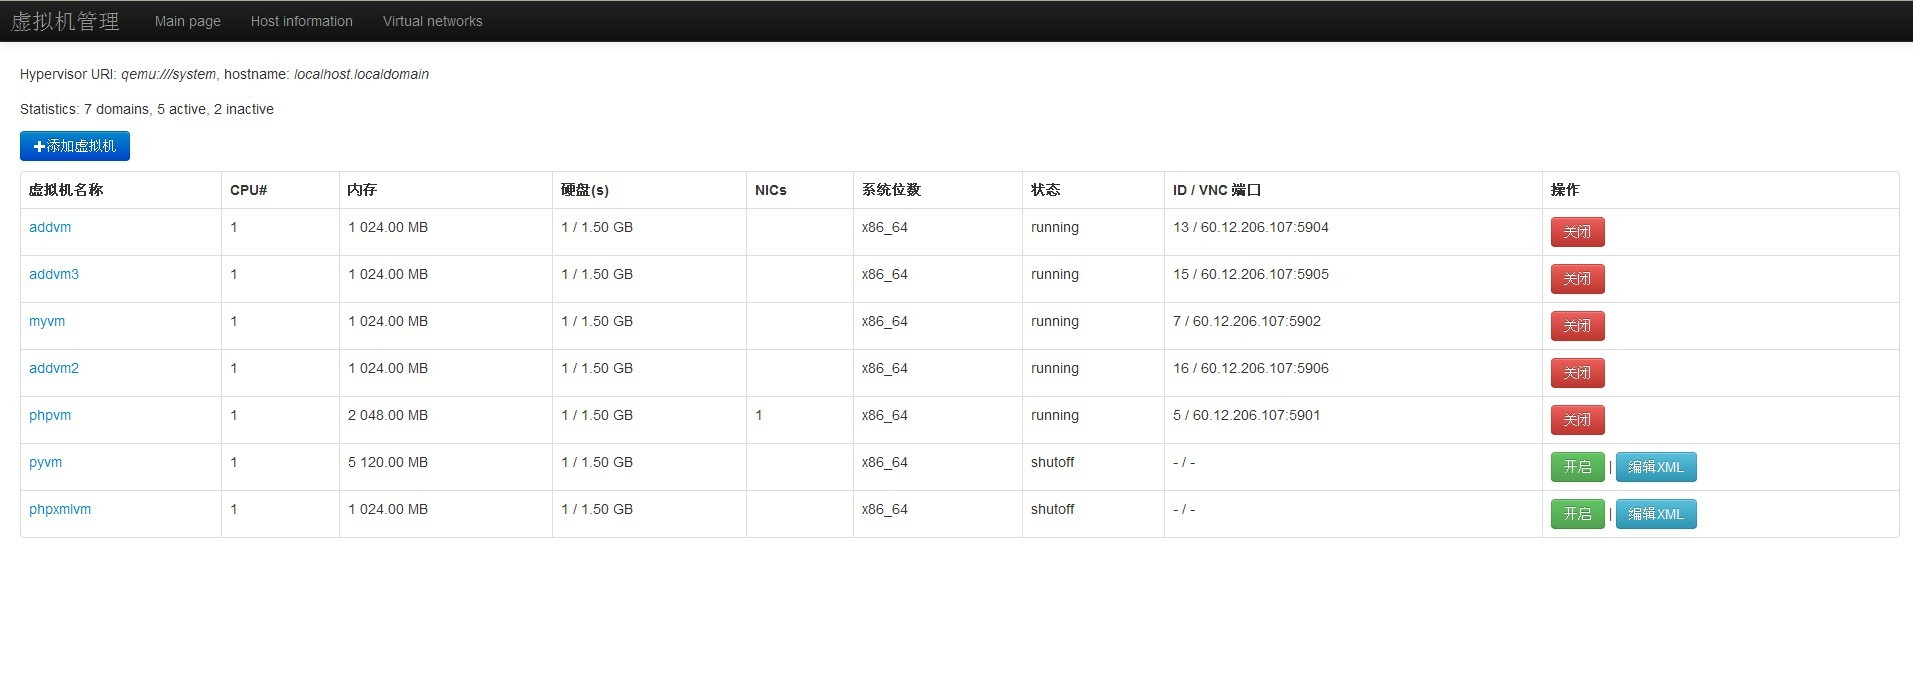
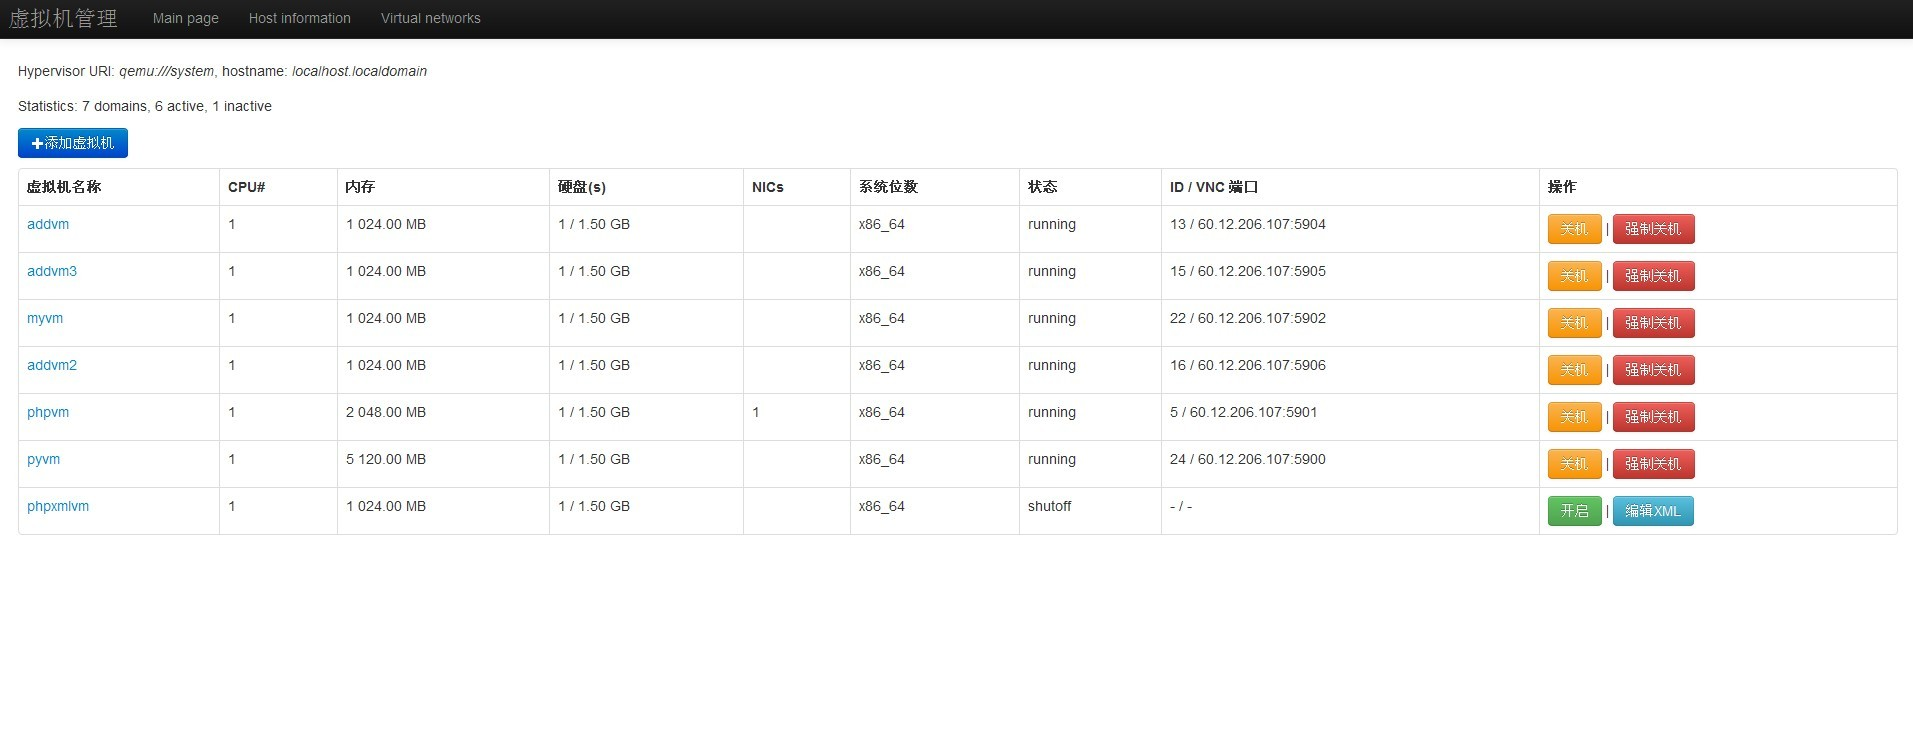
修改

diff --git a/index.php b/index.php
@@ -32,108 +32,104 @@ $tmp = $lv->get_domain_count();
                 <th>系统位数</th>
                 <th>状态</th>
                 <th>ID / VNC 端口</th>
-                <?php if (($active > 0) && ($lv->supports('screenshot'))):?><th>屏幕截图</th><?php endif;?>
                 <th>操作</th>
             </tr>
             <?php
-                $ret = false;
-                if ($action) {
-                    $domName = $lv->domain_get_name_by_uuid($_GET['uuid']);
+            $ret = false;
+            if ($action) {
+                $domName = $lv->domain_get_name_by_uuid($_GET['uuid']);
 
-                    if ($action == 'domain-start') {
-                        $ret = $lv->domain_start($domName) ? "Domain has been started successfully" : 'Error while starting domain: '.$lv->get_last_error();
-                    }
-                    else if ($action == 'domain-stop') {
-                        $ret = $lv->domain_shutdown($domName) ? "Domain has been stopped successfully" : 'Error while stopping domain: '.$lv->get_last_error();
-                    }
-                    else if ($action == 'domain-destroy') {
-                        $ret = $lv->domain_destroy($domName) ? "Domain has been destroyed successfully" : 'Error while destroying domain: '.$lv->get_last_error();
-                    }
-                    else if (($action == 'domain-get-xml') || ($action == 'domain-edit')) {
-                        $inactive = (!$lv->domain_is_running($domName)) ? true : false;
-                        $xml = $lv->domain_get_xml($domName, $inactive);
+                if ($action == 'domain-start') {
+                    $ret = $lv->domain_start($domName) ? "Domain has been started successfully" : 'Error while starting domain: '.$lv->get_last_error();
+                }
+                else if ($action == 'domain-stop') {
+                    $ret = $lv->domain_shutdown($domName) ? "Domain has been stopped successfully" : 'Error while stopping domain: '.$lv->get_last_error();
+                }
+                else if ($action == 'domain-destroy') {
+                    $ret = $lv->domain_destroy($domName) ? "Domain has been destroyed successfully" : 'Error while destroying domain: '.$lv->get_last_error();
+                }
+                else if (($action == 'domain-get-xml') || ($action == 'domain-edit')) {
+                    $inactive = (!$lv->domain_is_running($domName)) ? true : false;
+                    $xml = $lv->domain_get_xml($domName, $inactive);
 
-                        if ($action == 'domain-edit') {
-                            if (@$_POST['xmldesc']) {
-                                $ret = $lv->domain_change_xml($domName, $_POST['xmldesc']) ? "Domain definition has been changed" :
-                                                            'Error changing domain definition: '.$lv->get_last_error();
-                            }
-                            else
-                                $ret = 'Editing domain XML description: <br /><br /><form method="POST"><table width="80%"><tr><td width="200px">Domain XML description: </td>'.
-                                    '<td><textarea name="xmldesc" rows="25" style="width:80%">'.$xml.'</textarea></td></tr><tr align="center"><td colspan="2">'.
-                                    '<input type="submit" value=" Edit domain XML description "></tr></form>';
+                    if ($action == 'domain-edit') {
+                        if (@$_POST['xmldesc']) {
+                            $ret = $lv->domain_change_xml($domName, $_POST['xmldesc']) ? "Domain definition has been changed" :
+                                                        'Error changing domain definition: '.$lv->get_last_error();
                         }
                         else
-                            $ret = "Domain XML for domain <i>$domName</i>:<br /><br />".htmlentities($xml);
+                            $ret = 'Editing domain XML description: <br /><br /><form method="POST"><table width="80%"><tr><td width="200px">Domain XML description: </td>'.
+                                '<td><textarea name="xmldesc" rows="25" style="width:80%">'.$xml.'</textarea></td></tr><tr align="center"><td colspan="2">'.
+                                '<input type="submit" value=" Edit domain XML description "></tr></form>';
                     }
-                }
-                for ($i = 0; $i < sizeof($doms); $i++) {
-                    $name = $doms[$i];
-                    $res = $lv->get_domain_by_name($name);
-                    $uuid = libvirt_domain_get_uuid_string($res);
-                    $dom = $lv->domain_get_info($res);
-                    $mem = number_format($dom['memory'] / 1024, 2, '.', ' ').' MB';
-                    $cpu = $dom['nrVirtCpu'];
-                    $state = $lv->domain_state_translate($dom['state']);
-                    $id = $lv->domain_get_id($res);
-                    $arch = $lv->domain_get_arch($res);
-                    $vnc = $lv->domain_get_vnc_port($res);
-                    $nics = $lv->get_network_cards($res);
-                    if (($diskcnt = $lv->get_disk_count($res)) > 0) {
-                        $disks = $diskcnt.' / '.$lv->get_disk_capacity($res);
-                        $diskdesc = 'Current physical size: '.$lv->get_disk_capacity($res, true);
-                    }
-                    else {
-                        $disks = '-';
-                        $diskdesc = '';
-                    }
-
-                    if ($vnc < 0)
-                        $vnc = '-';
                     else
-                        $vnc = $_SERVER['HTTP_HOST'].':'.$vnc;
-
-                    unset($tmp);
-                    if (!$id)
-                        $id = '-';
-                    unset($dom);
-
-                    echo "<tr>
-                            <td>
-                            <a href=\"domaininfo.php?uuid=$uuid\">$name</a>
-                            </td>
-                            <td>$cpu</td>
-                            <td>$mem</td>
-                            <td title='$diskdesc'>$disks</td>
-                            <td>$nics</td>
-                            <td>$arch</td>
-                            <td>$state</td>
-                            <td>$id / $vnc</td>";
-
-                    if (($active > 0) && ($lv->supports('screenshot')))
-                        echo "
-                            <td><img src=\"?action=get-screenshot&uuid=$uuid&width=120\" id=\"screenshot$i\"></td>
-                        ";
-
-                        echo "
-                            <td>
-                        ";
-
-                    if ($lv->domain_is_running($res, $name))
-                        echo "<button class=\"btn btn-danger\" onclick=\"javascript:location.href='index.php?action=domain-destroy&amp;uuid=$uuid'\">关闭虚拟机</button>";
-                    else
-                        echo "<button class=\"btn btn-success\" onclick=\"javascript:location.href='index.php?action=domain-start&amp;uuid=$uuid'\">开启虚拟机</button>";
-
-                    // echo "<a href=\"?action=domain-get-xml&amp;uuid=$uuid\">Dump domain</a>";
-
-                    if (!$lv->domain_is_running($res, $name))
-                        echo " | <button class=\"btn btn-info\" onclick=\"javascript:location.href='index.php?action=domain-edit&amp;uuid=$uuid'\">编辑XML</button>";
-                    // else
-                    // if ($active > 0)
-                    //     echo "| <a href=\"?action=get-screenshot&amp;uuid=$uuid\">Get screenshot</a>";
-
-                    echo "</td></tr>";
+                        $ret = "Domain XML for domain <i>$domName</i>:<br /><br />".htmlentities($xml);
                 }
+            }
+            for ($i = 0; $i < sizeof($doms); $i++) {
+                $name = $doms[$i];
+                $res = $lv->get_domain_by_name($name);
+                $uuid = libvirt_domain_get_uuid_string($res);
+                $dom = $lv->domain_get_info($res);
+                $mem = number_format($dom['memory'] / 1024, 2, '.', ' ').' MB';
+                $cpu = $dom['nrVirtCpu'];
+                $state = $lv->domain_state_translate($dom['state']);
+                $id = $lv->domain_get_id($res);
+                $arch = $lv->domain_get_arch($res);
+                $vnc = $lv->domain_get_vnc_port($res);
+                $nics = $lv->get_network_cards($res);
+                if (($diskcnt = $lv->get_disk_count($res)) > 0) {
+                    $disks = $diskcnt.' / '.$lv->get_disk_capacity($res);
+                    $diskdesc = 'Current physical size: '.$lv->get_disk_capacity($res, true);
+                }
+                else {
+                    $disks = '-';
+                    $diskdesc = '';
+                }
+
+                if ($vnc < 0)
+                    $vnc = '-';
+                else
+                    $vnc = $_SERVER['HTTP_HOST'].':'.$vnc;
+
+                unset($tmp);
+                if (!$id)
+                    $id = '-';
+                unset($dom);
+
+                echo "<tr>
+                        <td>
+                        <a href=\"domaininfo.php?uuid=$uuid\">$name</a>
+                        </td>
+                        <td>$cpu</td>
+                        <td>$mem</td>
+                        <td title='$diskdesc'>$disks</td>
+                        <td>$nics</td>
+                        <td>$arch</td>
+                        <td>$state</td>
+                        <td>$id / $vnc</td>";
+
+                // if (($active > 0) && ($lv->supports('screenshot')))
+                //     echo "<td><img src=\"?action=get-screenshot&uuid=$uuid&width=120\" id=\"screenshot$i\"></td>";
+
+                echo "<td>";
+
+                if ($lv->domain_is_running($res, $name)){
+                    echo "<button class=\"btn btn-warning\" onclick=\"javascript:location.href='index.php?action=domain-stop&amp;uuid=$uuid'\">关机</button> | ";
+                    echo "<button class=\"btn btn-danger\" onclick=\"javascript:location.href='index.php?action=domain-destroy&amp;uuid=$uuid'\">强制关机</button>";
+                }else
+                    echo "<button class=\"btn btn-success\" onclick=\"javascript:location.href='index.php?action=domain-start&amp;uuid=$uuid'\">开启</button>";
+
+                // echo "<a href=\"?action=domain-get-xml&amp;uuid=$uuid\">Dump domain</a>";
+
+                if (!$lv->domain_is_running($res, $name))
+                    echo " | <button class=\"btn btn-info\" onclick=\"javascript:location.href='index.php?action=domain-edit&amp;uuid=$uuid'\">编辑XML</button>";
+                // else
+                // if ($active > 0)
+                //     echo "| <a href=\"?action=get-screenshot&amp;uuid=$uuid\">Get screenshot</a>";
+
+                echo "</td></tr>";
+            }
             ?>
         </table>
         <?php if ($ret) echo "<br /><pre>$ret</pre>";?>
